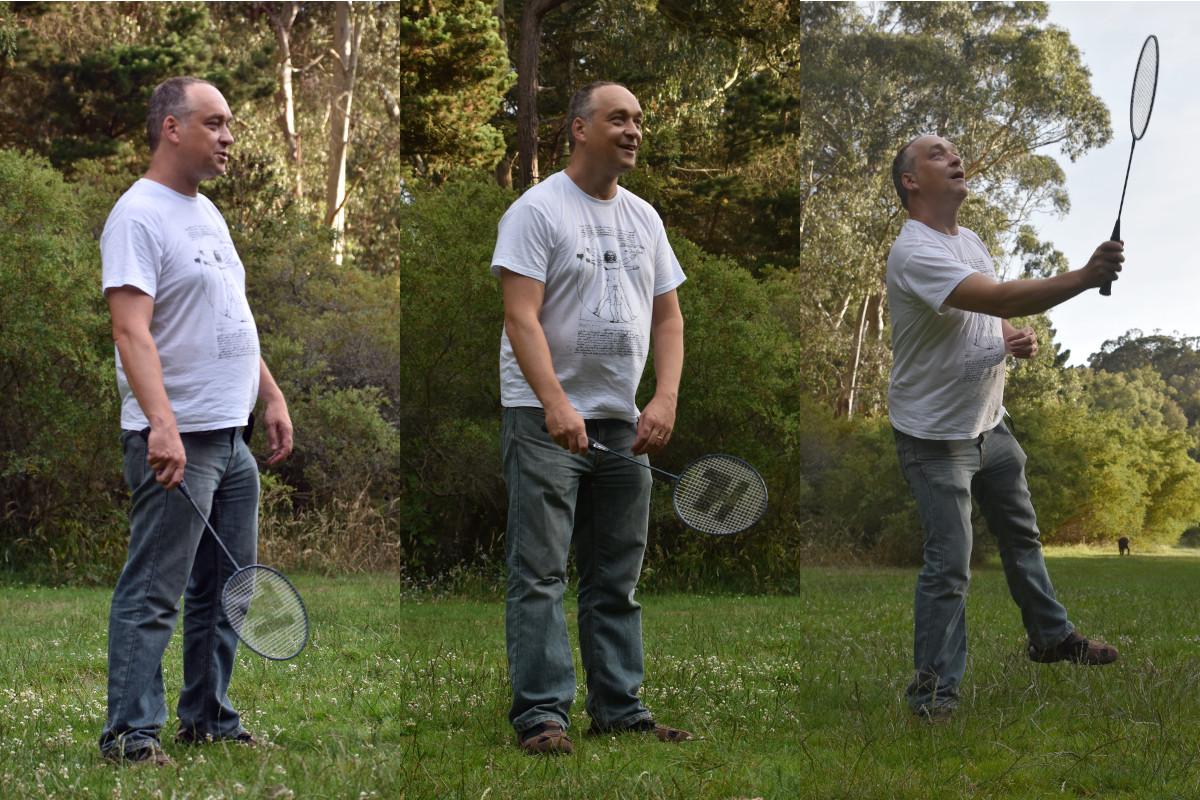
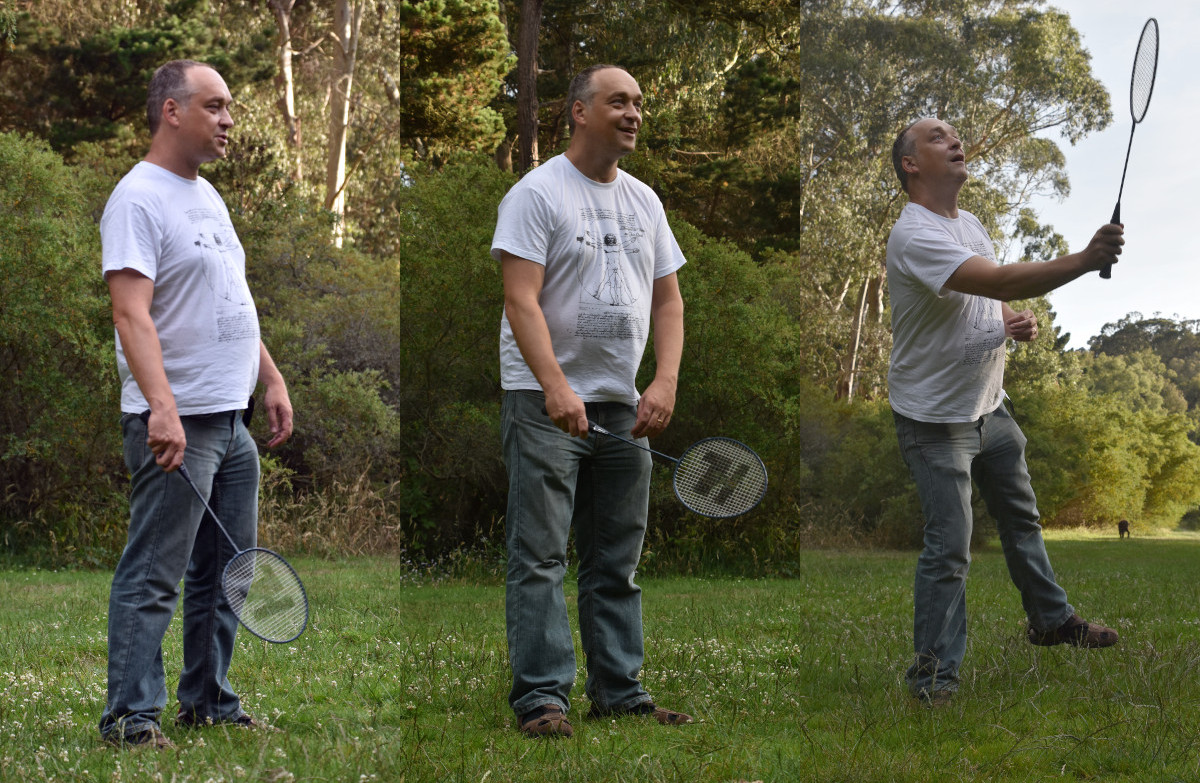
ggp

diff --git a/pages/ggp_07_2015/ggp_07_2015.html b/pages/ggp_07_2015/ggp_07_2015.html
@@ -97,7 +97,7 @@
 	    </figure>
 
 	    <figure itemprop="associatedMedia" itemscope itemtype="http://schema.org/ImageObject">
-	        <a href="photos/Untitled.jpg" itemprop="contentUrl" data-size="1200x799">
+	        <a href="photos/Untitled.jpg" itemprop="contentUrl" data-size="1200x783">
 	        <div class="col-xs-4 col-md-2">
 	        <div class="thumbnail">
 	            <img src="thumbnails/Untitled.jpg" itemprop="thumbnail" alt="Image description" />
